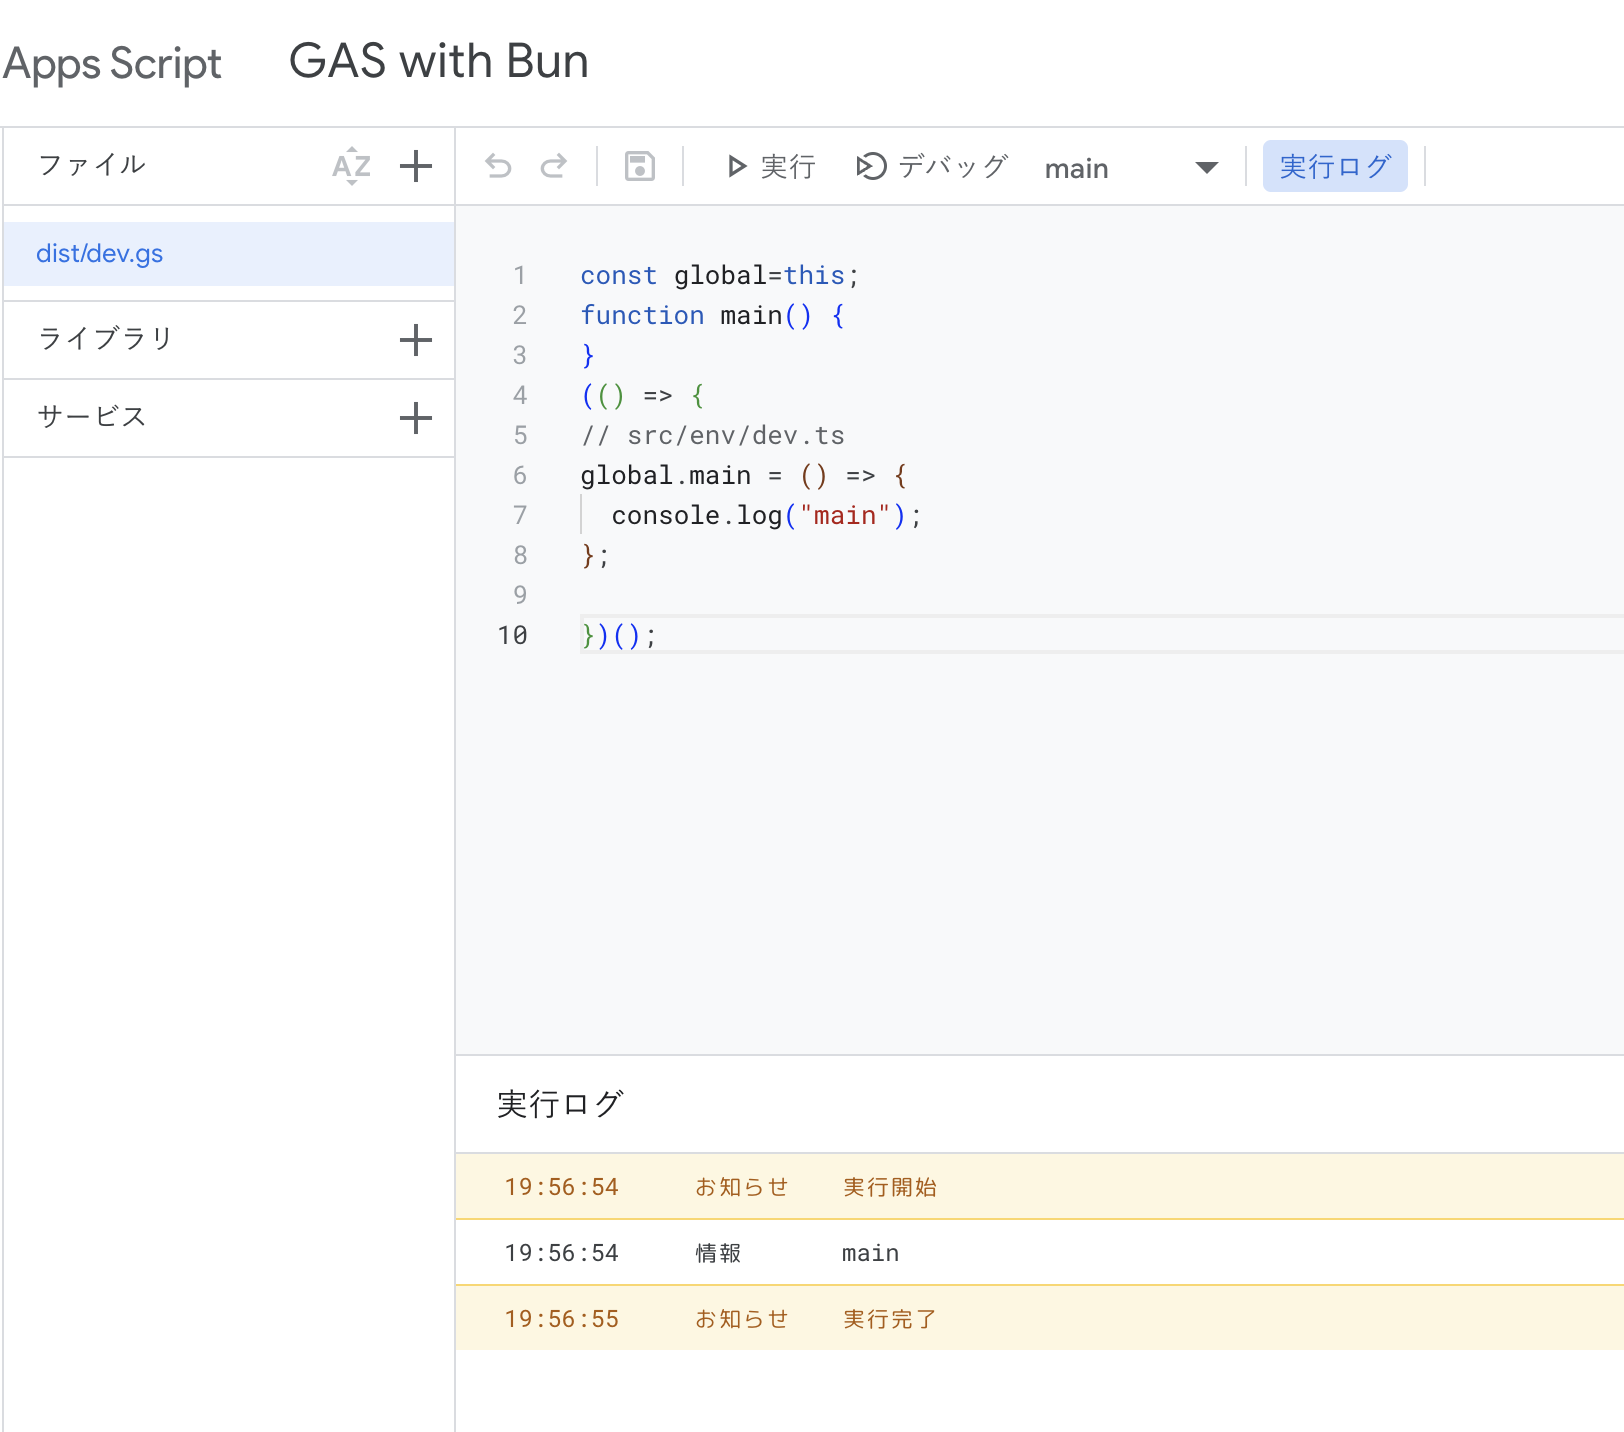
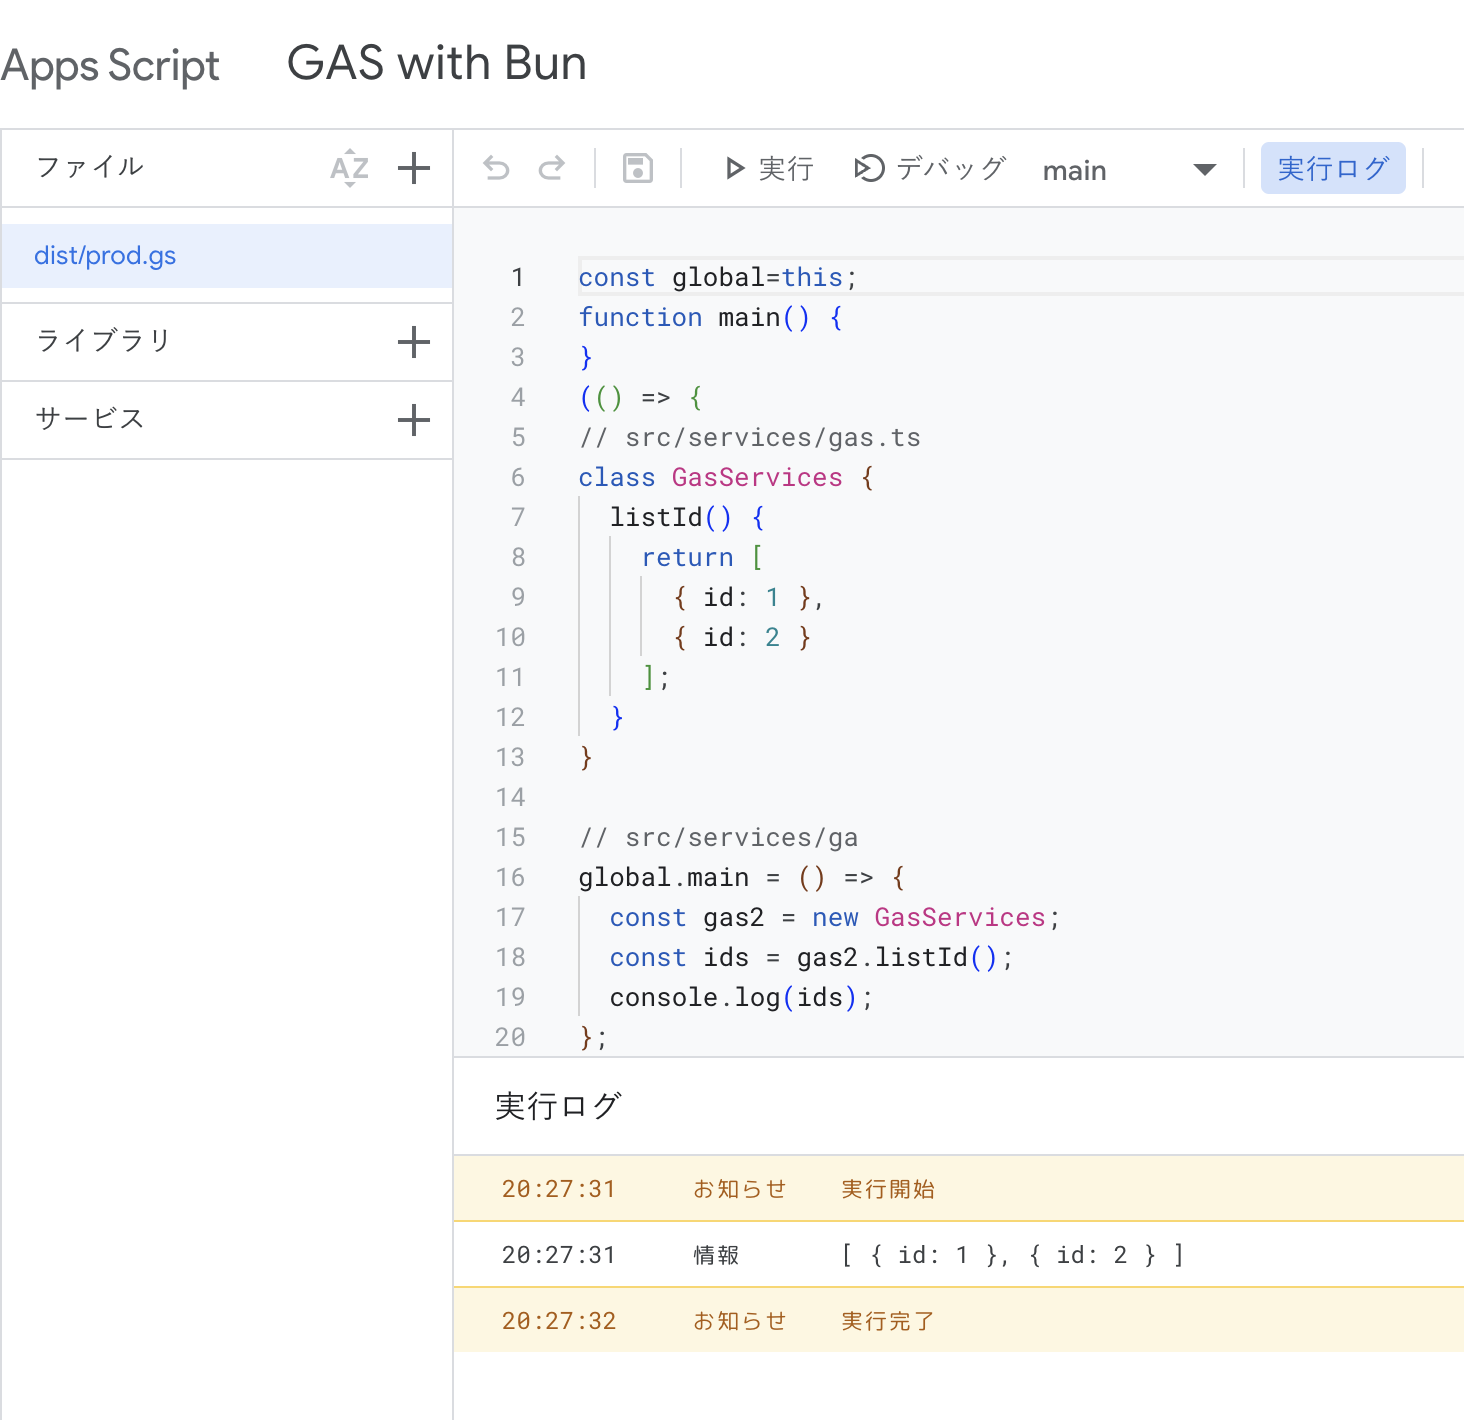
doc for template

diff --git a/src/services/gas.test.ts b/src/services/gas.test.ts
@@ -1,18 +1,17 @@
 import { expect, test, beforeEach } from "bun:test";
-import { GasServices } from "./gas";
+import { IGasServices } from "./gas";
 import { fixture } from "../app/id.test";
 
-let mockGas: GasServices;
+let mockGasService: IGasServices;
 
 beforeEach(() => {
-    mockGas = {
-        main: () => { },
-        listId: () => Promise.resolve(fixture),
+    mockGasService = {
+        listId: () => fixture,
     };
 });
 
 test("id must be unique", async () => {
-    const ids = await mockGas.listId();
+    const ids = mockGasService.listId();
     const uniqueIds = [...new Set(ids.map((id) => id.id))];
     expect(ids.map((id) => id.id)).toStrictEqual(uniqueIds);
 });

diff --git a/src/push.ts b/src/push.ts
@@ -2,7 +2,7 @@ const generateEntryFunctions: (i: string) => { entryPointFunctions: string } = r
 
 // Bun Bundler
 const build = await Bun.build({
-  entrypoints: ["src/env/dev.ts"],
+  entrypoints: ["src/prod.ts"],
   outdir: "dist",
 });
 
@@ -10,8 +10,6 @@ const build = await Bun.build({
 const artifact = build.outputs[0];
 const babeledCode = await Bun.file(artifact.path).text();
 const output = generateEntryFunctions(babeledCode);
-console.log(output);
-
 await Bun.write(artifact.path, `const global=this;\n${output.entryPointFunctions}\n(() => {\n${babeledCode}\n})();`);
 
 // Clasp Push

diff --git a/src/services/gas.ts b/src/services/gas.ts
@@ -1,6 +1,14 @@
 import { Id } from "../app/id";
 
-export interface GasServices {
-    main(): void;
+export interface IGasServices {
     listId(): Promise<Id[]>;
+}
+
+export class GasServices implements IGasServices {
+    async listId(): Promise<Id[]> {
+        return Promise.resolve([
+            { id: 1 },
+            { id: 2 },
+        ]);
+    }
 }

diff --git a/src/prod.ts b/src/prod.ts
@@ -1,0 +1,7 @@
+import { GasServices } from "./services/gas";
+
+global.main = async () => {
+    const gas = new GasServices();
+    const ids = await gas.listId();
+    console.log(ids);
+}

diff --git a/src/gas.d.ts b/src/gas.d.ts
@@ -1,4 +1,1 @@
 declare const global: Record<string, CallableFunction>;
-global.main = () => {
-    console.log("main");
-};

diff --git a/src/dev.ts b/src/dev.ts
@@ -1,0 +1,3 @@
+import "./prod";
+
+global.main()

diff --git a/README.md b/README.md
@@ -2,6 +2,23 @@
 
 ![ScreenShot in script.google.com](./screenshot.png)
 
+## Using this project as a template
+
+```sh
+# first time
+bun x @google/clasp login
+
+# recreate your project
+rm .clasp.json
+bun x @google/clasp create --type standalone --title "GAS with Bun"
+
+# test
+bun test
+
+# deploy
+bun push
+```
+
 ## License
 
 Copyright (c) HikaruEgashira. All rights reserved.

diff --git a/DesignDoc.md b/DesignDoc.md
@@ -12,9 +12,17 @@ graph LR
   EntryPoint --> Services
 ```
 
-## Log
+## App
 
-```sh
-bun x @google/clasp login
-bun x @google/clasp create --title "GAS with Bun" --type standalone
-```
+- ビジネスドメイン
+- ビジネスロジック
+
+## Services
+
+- 外部リソース
+- DB
+- リポジトリパターン
+
+## EntryPoint
+
+- 実行されるスクリプト
